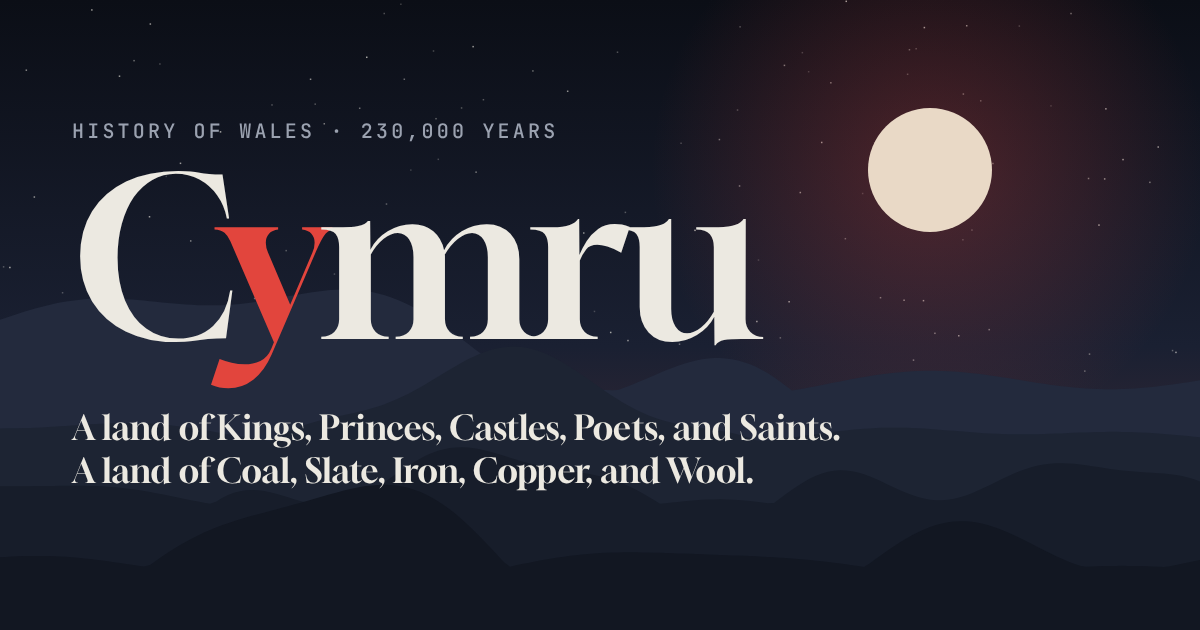
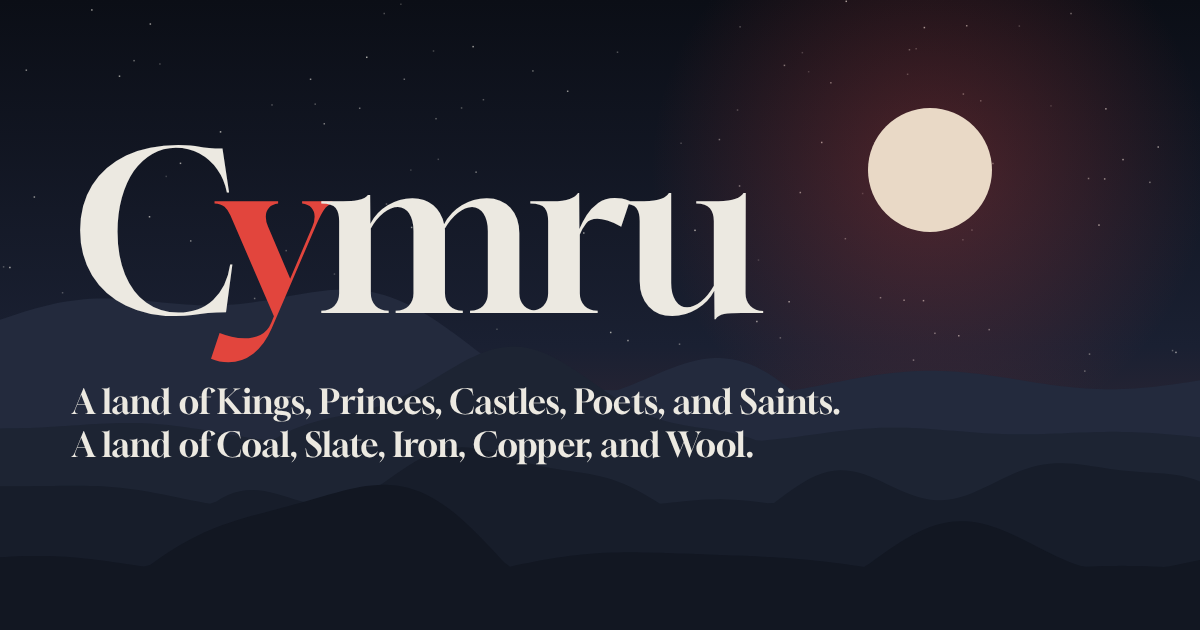
Hero: Yr Wyddfa with a flying red dragon; remove eyebrow line
Claude-Session: https://claude.ai/code/session_01HQpyg7uYT17WAsxMVYUVmt

diff --git a/src/app.js b/src/app.js
@@ -45,11 +45,16 @@
     g.addColorStop(0, "#0b0e16"); g.addColorStop(0.55, "#1a2032"); g.addColorStop(0.8, "#3a2a35"); g.addColorStop(1, "#0e1118");
     cx.fillStyle = g; cx.fillRect(0, 0, W, H);
     stars.forEach(function (s) { var tw = 0.5 + 0.5 * Math.sin(t / 900 + s[3] * 20); cx.fillStyle = "rgba(236,233,225," + (0.15 + 0.5 * tw * s[2] / 1.4) + ")"; cx.fillRect(s[0] * W, s[1] * H - sy * 0.02, s[2], s[2]); });
-    var narrow = W < 640, mx = W * (narrow ? 0.84 : 0.74) - mouse * 10, my = H * (narrow ? 0.1 : 0.3) - sy * 0.03, mr = Math.max(28, Math.min(W, H) * 0.07);
-    var mg = cx.createRadialGradient(mx, my, mr * 0.6, mx, my, mr * 4.5); mg.addColorStop(0, "rgba(226,69,61,.22)"); mg.addColorStop(1, "rgba(226,69,61,0)");
+    var narrow = W < 640;
+    /* Eryri: summit geometry */
+    var ex0 = narrow ? -W * 0.15 : W * 0.38, ew = narrow ? W * 1.35 : W * 0.7, eb = H * (narrow ? 0.62 : 0.72), eh = H * (narrow ? 0.3 : 0.5);
+    var sumX = ex0 + 0.53 * ew - mouse * 4, sumY = eb - eh - sy * 0.04;
+    var mx = narrow ? W * 0.86 : W * 0.9, my = H * (narrow ? 0.07 : 0.13) - sy * 0.03, mr = Math.max(18, Math.min(W, H) * 0.04);
+    var mg = cx.createRadialGradient(sumX, sumY, 10, sumX, sumY, Math.max(W, H) * 0.45); mg.addColorStop(0, "rgba(226,69,61,.26)"); mg.addColorStop(1, "rgba(226,69,61,0)");
     cx.fillStyle = mg; cx.fillRect(0, 0, W, H);
     cx.fillStyle = "#e9d9c6"; cx.beginPath(); cx.arc(mx, my, mr, 0, 7); cx.fill();
     LAYERS.forEach(function (L, i) {
+      if (i === 1) drawEryri(ex0 - mouse * 4, eb - sy * 0.04, ew, eh);
       var w = ridges[i], base = H * L.y + sy * L.s * 0.6, off = mouse * (i + 1) * 6;
       cx.beginPath(); cx.moveTo(0, H);
       for (var x = 0; x <= W + 8; x += 6) {
@@ -61,6 +66,39 @@
       cx.lineTo(W, H); cx.closePath(); cx.fillStyle = L.c; cx.fill();
       if (i === 1 || i === 3) { var fg = cx.createLinearGradient(0, base - H * 0.08, 0, base + H * 0.05); fg.addColorStop(0, "rgba(160,170,200,0)"); fg.addColorStop(0.6, "rgba(160,170,200," + (0.06 + 0.02 * Math.sin(t / 2200 + i)) + ")"); fg.addColorStop(1, "rgba(160,170,200,0)"); cx.fillStyle = fg; cx.fillRect(0, base - H * 0.08, W, H * 0.13); }
     });
+    drawDragon(t, sumX, sumY, narrow);
+  }
+  /* Yr Wyddfa seen from the east: Crib Goch, Garnedd Ugain, the summit, then Y Lliwedd */
+  var ERYRI = [[0,.04],[.07,.14],[.14,.3],[.2,.47],[.23,.55],[.245,.52],[.26,.6],[.275,.57],[.29,.64],[.31,.61],[.335,.71],[.37,.77],[.41,.82],[.445,.79],[.48,.86],[.51,.95],[.53,1],[.55,.95],[.575,.86],[.61,.76],[.64,.69],[.665,.73],[.685,.7],[.705,.74],[.725,.71],[.76,.6],[.82,.44],[.89,.27],[.95,.14],[1,.06]];
+  function drawEryri(x0, base, w, h) {
+    cx.beginPath(); cx.moveTo(x0, base + h * 0.2);
+    ERYRI.forEach(function (p) { cx.lineTo(x0 + p[0] * w, base - p[1] * h); });
+    cx.lineTo(x0 + w, base + h * 0.2); cx.closePath();
+    var g = cx.createLinearGradient(0, base - h, 0, base); g.addColorStop(0, "#36405e"); g.addColorStop(1, "#1e2537");
+    cx.fillStyle = g; cx.fill();
+    cx.beginPath(); ERYRI.forEach(function (p, j) { var X = x0 + p[0] * w, Y = base - p[1] * h; if (j) cx.lineTo(X, Y); else cx.moveTo(X, Y); });
+    cx.strokeStyle = "rgba(233,217,198,.28)"; cx.lineWidth = 1.4; cx.stroke();
+  }
+  /* Y Ddraig Goch: an original silhouette, facing right, 220 x 130 units */
+  var DR = {
+    body: new Path2D("M186 34C190 33 196 35 200 38L193 40C196 42 199 44 200 46C194 47 188 46 184 45C178 47 172 52 168 58C163 66 156 72 146 74C132 77 116 78 102 77C88 76 76 74 66 76C52 79 40 88 28 96C20 101 12 102 6 98C10 98 16 95 22 90C34 80 46 70 60 66C74 62 90 64 104 63C118 62 132 62 142 58C152 54 158 46 164 38C168 32 174 28 180 28L176 20L184 27L186 18L189 29C189 31 188 32 186 34ZM8 99L-6 92L0 104L-4 112L12 102ZM138 72C142 80 144 86 150 90L156 90L152 94L158 96L146 96C138 92 134 84 130 76ZM76 74C76 84 72 92 66 98L72 100L64 102L68 106L58 104C62 96 64 86 64 76Z"),
+    far: new Path2D("M128 62C130 40 140 18 160 2C150 18 150 26 152 32C144 30 140 36 142 42C134 42 132 50 134 58Z"),
+    near: new Path2D("M92 64C86 40 74 18 48 0C62 4 80 10 96 20L104 10C112 22 118 36 120 52C114 48 108 50 108 56C102 52 96 56 98 62Z")
+  };
+  function drawDragon(t, sumX, sumY, narrow) {
+    var period = 26000, k = reduce ? 0.55 : (t % period) / period;
+    var sx = narrow ? W * 0.6 : W * 0.6, ex = narrow ? W * 0.8 : sumX - W * 0.07;
+    var sy0 = narrow ? H * 0.1 : H * 0.07, ey = narrow ? H * 0.2 : sumY - H * 0.09;
+    var x = sx + (ex - sx) * k, y = sy0 + (ey - sy0) * k + Math.sin(t / 900) * H * 0.008;
+    var size = (narrow ? W * 0.22 : Math.min(W * 0.13, 200)) * (1 - 0.45 * k), sc = size / 220;
+    var alpha = reduce ? 1 : Math.min(1, k / 0.08, (1 - k) / 0.12);
+    var flap = reduce ? 1 : 0.62 + 0.38 * Math.cos(t / 260);
+    cx.save(); cx.globalAlpha = alpha; cx.translate(x, y); cx.scale(sc, sc); cx.rotate(-0.06);
+    cx.fillStyle = "#c9372f";
+    cx.save(); cx.translate(0, 62); cx.scale(1, flap); cx.translate(0, -62); cx.fill(DR.far); cx.restore();
+    cx.fillStyle = "#e2453d"; cx.fill(DR.body);
+    cx.save(); cx.translate(0, 64); cx.scale(1, flap); cx.translate(0, -64); cx.fill(DR.near); cx.restore();
+    cx.restore();
   }
   function loop(t) { t0 = t; if (window.scrollY < H) draw(t); requestAnimationFrame(loop); }
   window.addEventListener("resize", size);

diff --git a/tools/make_images.js b/tools/make_images.js
@@ -6,7 +6,7 @@ const og = `<html><head><link href="https://fonts.googleapis.com/css2?family=Glo
 <style>body{margin:0;width:1200px;height:630px;overflow:hidden;background:#0e1118;font-family:Figtree,sans-serif}canvas{position:absolute;inset:0}
 .t{position:absolute;left:72px;top:118px;color:#ece9e1}.e{font:500 20px 'JetBrains Mono',monospace;letter-spacing:.16em;color:#9ba2b0}
 h1{font:400 220px/0.86 Gloock,serif;margin:18px 0 0;letter-spacing:-4px}h1 span{color:#e2453d}p{font:400 34px/1.25 Gloock,serif;margin:56px 0 0}</style></head>
-<body><canvas id=c width=1200 height=630></canvas><div class=t><div class=e>HISTORY OF WALES · 230,000 YEARS</div><h1>C<span>y</span>mru</h1><p>A land of Kings, Princes, Castles, Poets, and Saints.<br>A land of Coal, Slate, Iron, Copper, and Wool.</p></div>
+<body><canvas id=c width=1200 height=630></canvas><div class=t><h1>C<span>y</span>mru</h1><p>A land of Kings, Princes, Castles, Poets, and Saints.<br>A land of Coal, Slate, Iron, Copper, and Wool.</p></div>
 <script>const c=document.getElementById('c').getContext('2d'),W=1200,H=630;let s=1282;const r=()=>{s=s*16807%2147483647;return(s-1)/2147483646};
 const g=c.createLinearGradient(0,0,0,H);g.addColorStop(0,'#0b0e16');g.addColorStop(.55,'#1a2032');g.addColorStop(.8,'#3a2a35');g.addColorStop(1,'#0e1118');c.fillStyle=g;c.fillRect(0,0,W,H);
 for(let i=0;i<120;i++){c.fillStyle='rgba(236,233,225,'+(.2+r()*.5)+')';c.fillRect(r()*W,r()*H*.6,1.5,1.5)}

diff --git a/src/head.html b/src/head.html
@@ -297,7 +297,6 @@ footer .big { font-family: var(--f-display); font-size: clamp(2.5rem, 8vw, 5rem)
 <header class="hero" id="top">
   <canvas id="sky" aria-hidden="true"></canvas>
   <div class="wrap">
-    <p class="eyebrow" data-cy="Hanes Cymru · 230,000 o flynyddoedd">History of Wales · 230,000 years</p>
     <h1 aria-label="Cymru"><span style="--i:0">C</span><span class="y" style="--i:1">y</span><span style="--i:2">m</span><span style="--i:3">r</span><span style="--i:4">u</span></h1>
     <div class="sub">
       <p class="tag"><span data-cy="Gwlad y Brenhinoedd, y Tywysogion, y Cestyll, y Beirdd a’r Seintiau.">A land of Kings, Princes, Castles, Poets, and Saints.</span> <span data-cy="Gwlad y Glo, y Llechi, yr Haearn, y Copr a’r Gwlân.">A land of Coal, Slate, Iron, Copper, and Wool.</span></p>
